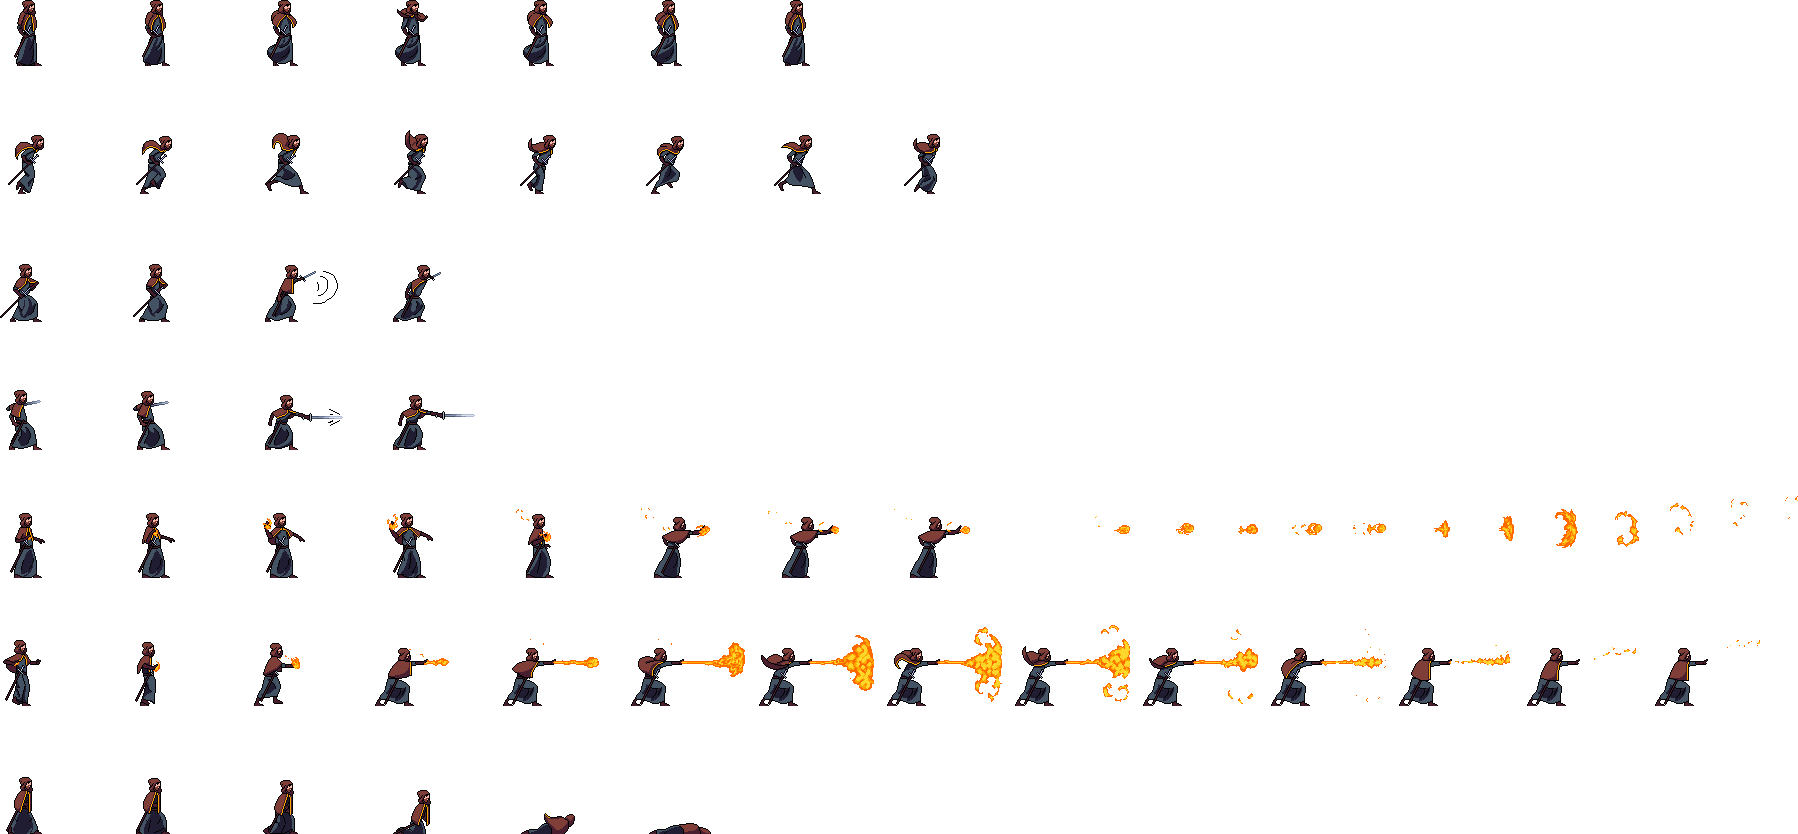
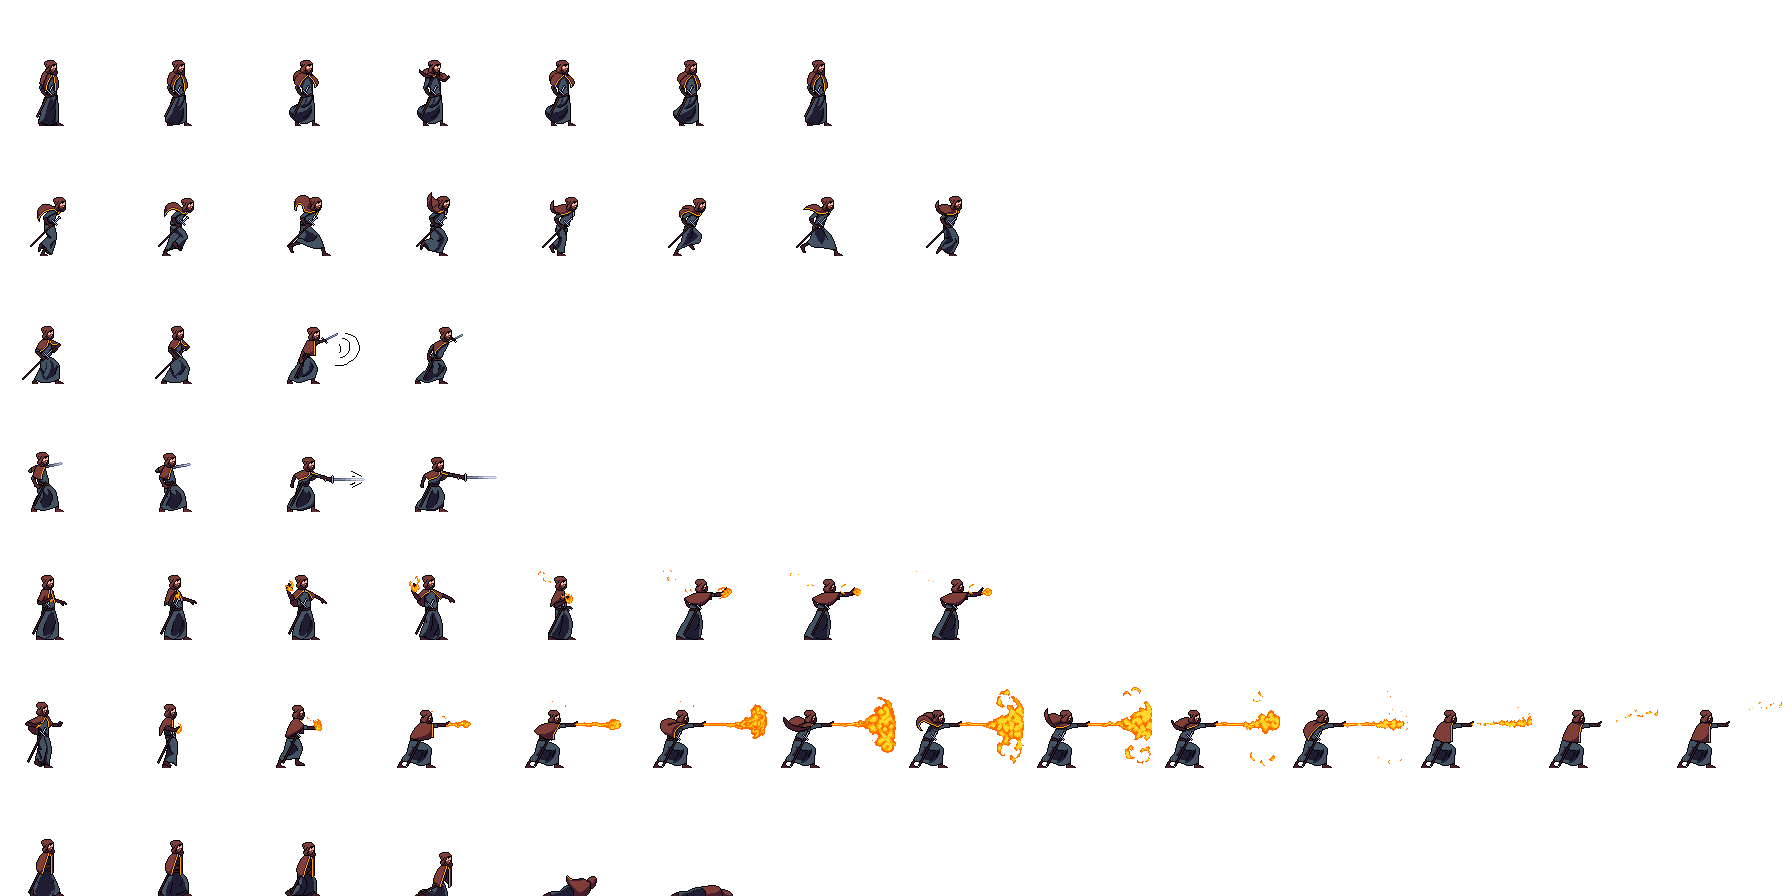
update img

diff --git a/src/utils/LoadSave.java b/src/utils/LoadSave.java
@@ -6,7 +6,7 @@ import java.io.IOException;
 import java.io.InputStream;
 
 public class LoadSave {
-    public static final String WIZARD = "hero2.png";
+    public static final String WIZARD = "wizard.png";
     public static BufferedImage getSprite(String fileName){
         BufferedImage img = null;
         InputStream is = LoadSave.class.getResourceAsStream("/" + fileName);
